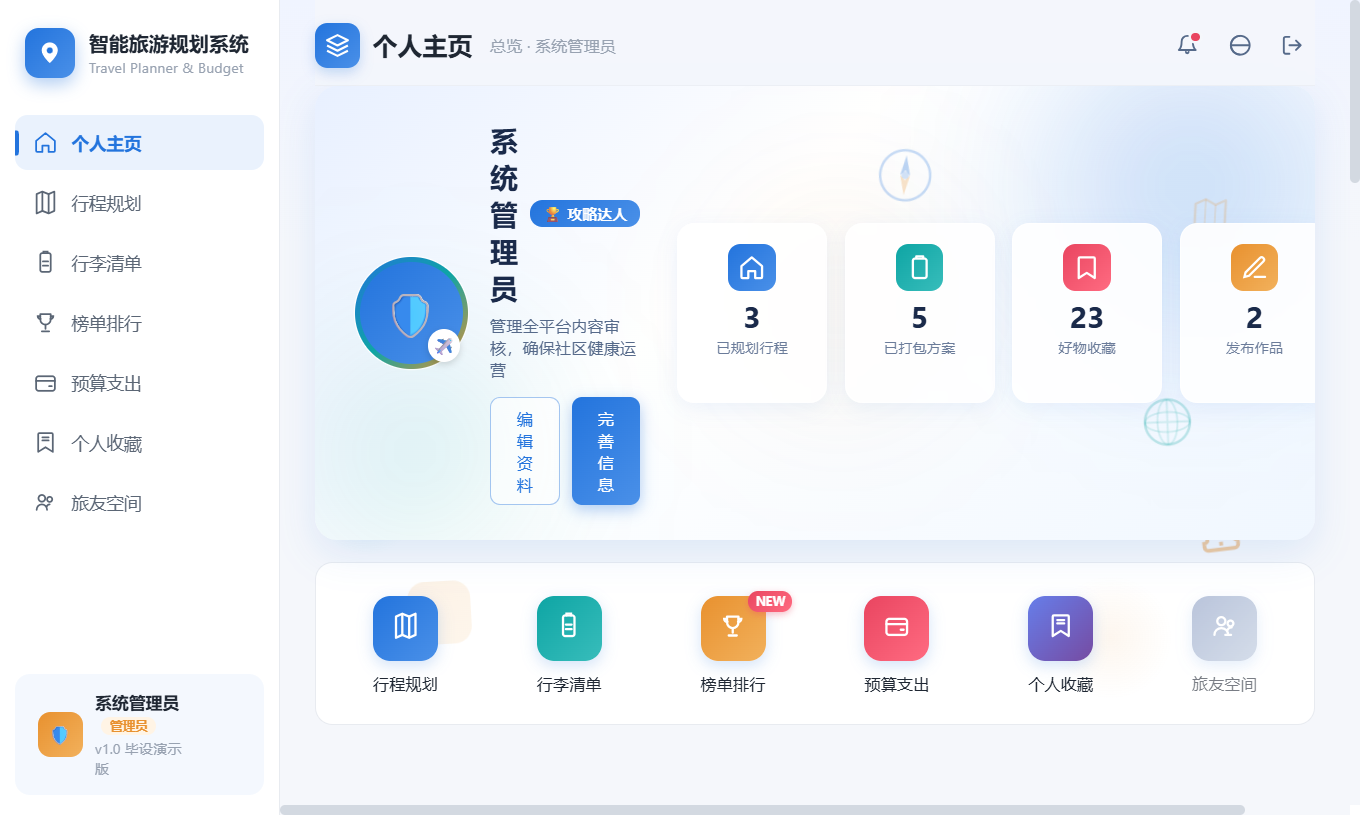
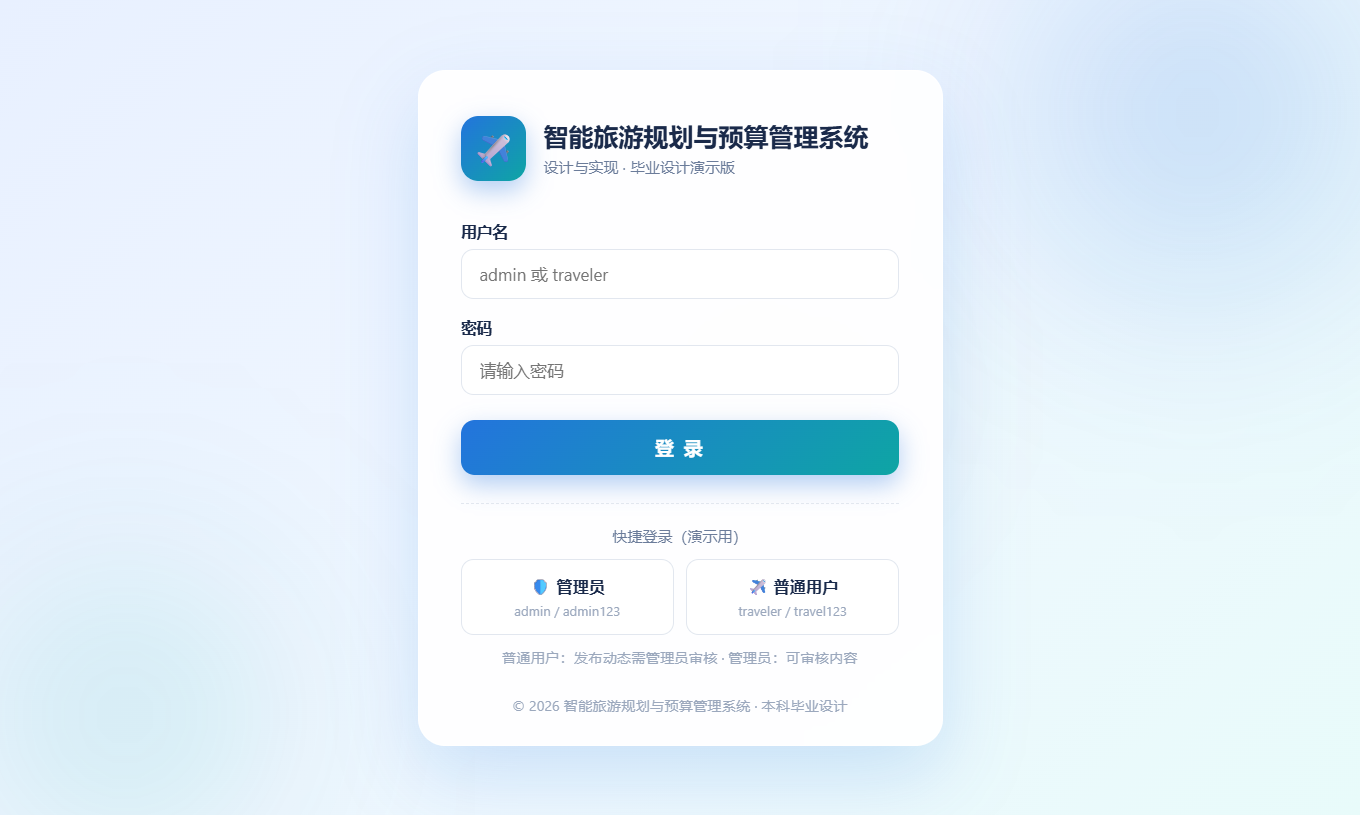
feat: 刷新全部演示截图 + 修复 /chat 路由 + 演示数据落库
- 9 张全新真实截图（登录页/个人中心/行程规划/AI对话/社区/预算/行李/榜单/管理员审核）
- 修复 Chat.vue 路由被错误重定向到 profile-home 的 bug
- README 演示板块引用更新为新截图文件名
- seed_demo.sql: 4 条真实社区帖子 + 6 笔预算账单 + 10 件行李物品
- 删除旧截图，清理冗余文件

diff --git a/travel-h5-java/src/router/index.js b/travel-h5-java/src/router/index.js
@@ -18,7 +18,7 @@ const routes = [
     // 旧版移动端路由统一指向个人主页
     { path: '/home', redirect: '/profile-home' },
     { path: '/detail', redirect: '/profile-home' },
-    { path: '/chat', redirect: '/profile-home' },
+    { path: '/chat', name: 'Chat', component: () => import('../views/Chat.vue') },
     { path: '/profile', redirect: '/profile-home' }
 ]
 

diff --git a/README.md b/README.md
@@ -1,4 +1,4 @@
-# 🌏 智能旅游规划与预算管理系统
+# 🌏 智能旅游规划与预算管理系统
 
 ![Vue3](https://img.shields.io/badge/Vue-3.5-42b883?logo=vue&logoColor=fff)
 ![SpringBoot](https://img.shields.io/badge/Spring%20Boot-4.0-6db33f?logo=spring&logoColor=fff)
@@ -56,34 +56,34 @@
 输入目的地、天数、偏好，AI 一次生成 2~3 套完整多日路线（每套都真实落库返回 tripId）。
 
 ### ④ AI 智能问答（SSE 流式）
-![AI 对话](docs/screenshots/s-04-chat.png)
+![AI 对话](docs/screenshots/s-09-ai-chat.png)
 
 按 `sessionKey` 自动归组对话，每轮 user + assistant 消息完整写入 `chat_sessions / chat_messages`。
 
 ### ⑤ 旅友空间（社区）
-![社区广场](docs/screenshots/s-05-community.png)
+![社区广场](docs/screenshots/s-04-community.png)
 
 - 广场：所有已审核通过的公开动态
 - 我的动态：自己的全部帖子（含待审核/已驳回）
 - 管理员入口：带待审核角标，一键进审核后台
 
 ### ⑥ 预算支出
-![预算页](docs/screenshots/s-06-budget.png)
+![预算页](docs/screenshots/s-05-budget.png)
 
 预算设置 → 花销概览（渐变进度环）→ 分类统计 → 账单 CRUD → 历史预算方案 → AI 预算建议。
 
 ### ⑦ 行李清单（AI 生成 + AI 校验）
-![行李清单](docs/screenshots/s-07-packing.png)
+![行李清单](docs/screenshots/s-06-packing.png)
 
 按目的地/天数/出行方式生成，AI 检查缺失，标记已准备，分类汇总。
 
 ### ⑧ 榜单排行
-![榜单页](docs/screenshots/s-08-ranking.png)
+![榜单页](docs/screenshots/s-07-ranking.png)
 
 黑榜（避雷）/ 红榜（好评）/ 特色榜单，按城市切换，每张卡片配有真实实拍图。
 
 ### ⑨ 管理员审核后台
-![管理员审核](docs/screenshots/s-09-admin.png)
+![管理员审核](docs/screenshots/s-08-admin-review.png)
 
 多条件筛选（城市/类型/状态/时间/关键词）、批量通过/删除、单条审核详情。
 
